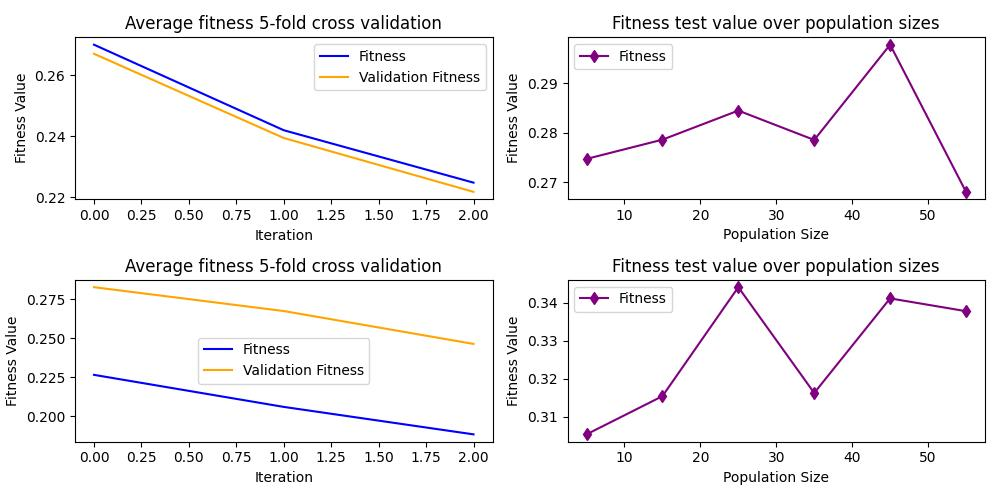
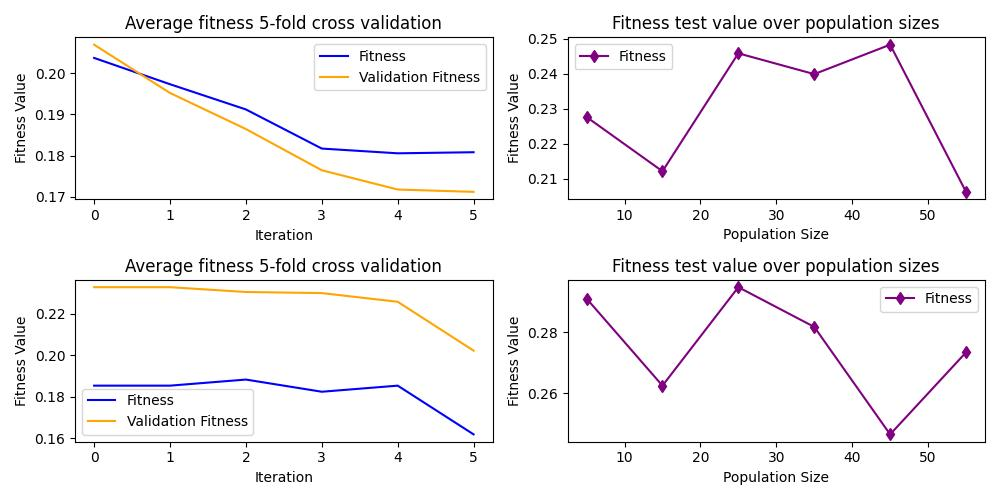
Fixed GOA algorithm; Added title parameter to plot functions

diff --git a/main.py b/main.py
@@ -82,22 +82,28 @@ def fitness(weights, data, alpha=0.5, classifier='knn'):
 
     return {'TrainFitness': fitness_train, 'ValFitness': fitness_val}
 
-def plot_fitness_over_folds(fitness_values, iterations, k, ax=None):
+def plot_fitness_over_folds(fitness_values, iterations, k, ax=None, title=None):
     iteration_numbers = np.arange(0, iterations+1)
     if ax is None:
         fig, ax = plt.subplots()
     ax.plot(iteration_numbers, fitness_values['TrainFitness'], label='Fitness', color='blue')
     ax.plot(iteration_numbers, fitness_values['ValFitness'], label='Validation Fitness', color='orange')
-    ax.set_title('Average fitness {}-fold cross validation'.format(k))
+    if title == None:
+        ax.set_title('Average fitness {}-fold cross validation'.format(k))
+    else:
+        ax.set_title(title)
     ax.set_xlabel('Iteration')
     ax.set_ylabel('Fitness Value')
     ax.legend()
 
-def plot_fitness_over_population_sizes(fitness_values, population_sizes, ax=None):
+def plot_fitness_over_population_sizes(fitness_values, population_sizes, ax=None, title=None):
     if ax is None:
         fig, ax = plt.subplots()
     ax.plot(population_sizes, fitness_values, label='Fitness', color='purple', marker='d')
-    ax.set_title('Fitness test value over population sizes')
+    if title == None:
+        ax.set_title('Fitness test value over population sizes')
+    else:
+        ax.set_title(title)
     ax.set_xlabel('Population Size')
     ax.set_ylabel('Fitness Value')
     ax.legend()
@@ -124,7 +130,7 @@ def k_fold_cross_validation(dataset, optimizator, k=5, parameters=None, target_f
 
         # Evaluate the model on the test set of the current fold
         target_function_parameters['data'] = sample_test
-        target_function_parameters['weights'] = gao[:-1]
+        target_function_parameters['weights'] = gao[:-2]
         test_fitness.append(fitness(**target_function_parameters)['ValFitness'])
 
         fold_index += 1
@@ -147,7 +153,8 @@ def population_test(dataset, optimizator, k=5, parameters=None, target_function_
 
     total_fitness_test = []
 
-    total_fitness_test = [test_fitness for test_fitness, _ in (k_fold_cross_validation(dataset, optimizator, k, {'grasshoppers': size, **parameters}, target_function_parameters) 
+    first_key, _ = next(iter(parameters.items()))
+    total_fitness_test = [test_fitness for test_fitness, _ in (k_fold_cross_validation(dataset, optimizator, k, {first_key: size, **parameters}, target_function_parameters) 
                                                                for size in range(initial_population_size, max_population_size + 5, population_size_step))]
 
     total_fitness_array = np.array(total_fitness_test).T
@@ -177,7 +184,7 @@ def main(notify=False):
             'grasshoppers': 20,
             'min_values': [0] * (samples.shape[1]),
             'max_values': [1] * (samples.shape[1]),
-            'iterations': 100,
+            'iterations': 650,
             'binary': 's', 
         }
     elif optimizator == dragonfly_algorithm:
@@ -213,10 +220,10 @@ def main(notify=False):
 
     
     fig, axes = plt.subplots(nrows=2, ncols=2, figsize=(10, 5))
-    plot_fitness_over_folds(fitness_values, parameters['iterations'], k, ax=axes[0, 0])
-    plot_fitness_over_population_sizes(total_fitness_test, np.arange(5, 60, 10), ax=axes[0, 1])
-    plot_fitness_over_folds(fitness_values_2, parameters['iterations'], k, ax=axes[1, 0])
-    plot_fitness_over_population_sizes(total_fitness_test_2, np.arange(5, 60, 10), ax=axes[1, 1])
+    plot_fitness_over_folds(fitness_values, parameters['iterations'], k, ax=axes[0, 0], title='Average fitness {}-fold cross validation (SVC)'.format(k))
+    plot_fitness_over_population_sizes(total_fitness_test, np.arange(5, 60, 10), ax=axes[0, 1], title='Fitness test value over population sizes (SVC)')
+    plot_fitness_over_folds(fitness_values_2, parameters['iterations'], k, ax=axes[1, 0], title='Average fitness {}-fold cross validation (KNN)'.format(k))
+    plot_fitness_over_population_sizes(total_fitness_test_2, np.arange(5, 60, 10), ax=axes[1, 1], title='Fitness test value over population sizes (KNN)')
     plt.tight_layout()
     plt.savefig('./images/dashboard.jpg')
 

diff --git a/pyMetaheuristic/algorithm/goa.py b/pyMetaheuristic/algorithm/goa.py
@@ -23,11 +23,11 @@ def target_function():
 
 # Function: Initialize Variables
 def initial_position(grasshoppers = 5, min_values = [-5,-5], max_values = [5,5], target_function = target_function, target_function_parameters = None):
-    position = np.zeros((grasshoppers, len(min_values)+1))
+    position = np.zeros((grasshoppers, len(min_values)+2))
     for i in range(0, grasshoppers):
         for j in range(0, len(min_values)):
              position[i,j] = random.uniform(min_values[j], max_values[j])
-        target_function_parameters['weights'] = position[i,0:position.shape[1]-1]
+        target_function_parameters['weights'] = position[i,0:position.shape[1]-2]
         position[i,-1] = target_function(**target_function_parameters)['ValFitness']
     return position
 
@@ -60,7 +60,7 @@ def s_function(r, F, L):
 
 # Function: Distance Matrix
 def build_distance_matrix(position):
-   a = position[:,:-1]
+   a = position[:,:-2]
    b = a.reshape(np.prod(a.shape[:-1]), 1, a.shape[-1])
    return np.sqrt(np.einsum('ijk,ijk->ij',  b - a,  b - a)).squeeze()
 
@@ -81,7 +81,7 @@ def update_position(position, best_position, min_values, max_values, C, F, L, ta
                 position[i, j] = hiperbolic_tan_threshold(np.clip(C*sum_grass + best_position[0, j], min_values[j], max_values[j]), np.clip(C*sum_grass, min_values[j], max_values[j]))
             else:
                 position[i, j] = np.clip(C*sum_grass + best_position[0, j], min_values[j], max_values[j])
-        target_function_parameters['weights'] = position[i,0:position.shape[1]-1]
+        target_function_parameters['weights'] = position[i,0:position.shape[1]-2]
         fitness_values = target_function(**target_function_parameters)
         position[i, -1] = fitness_values['ValFitness']
         position[i, -2] = fitness_values['TrainFitness']
